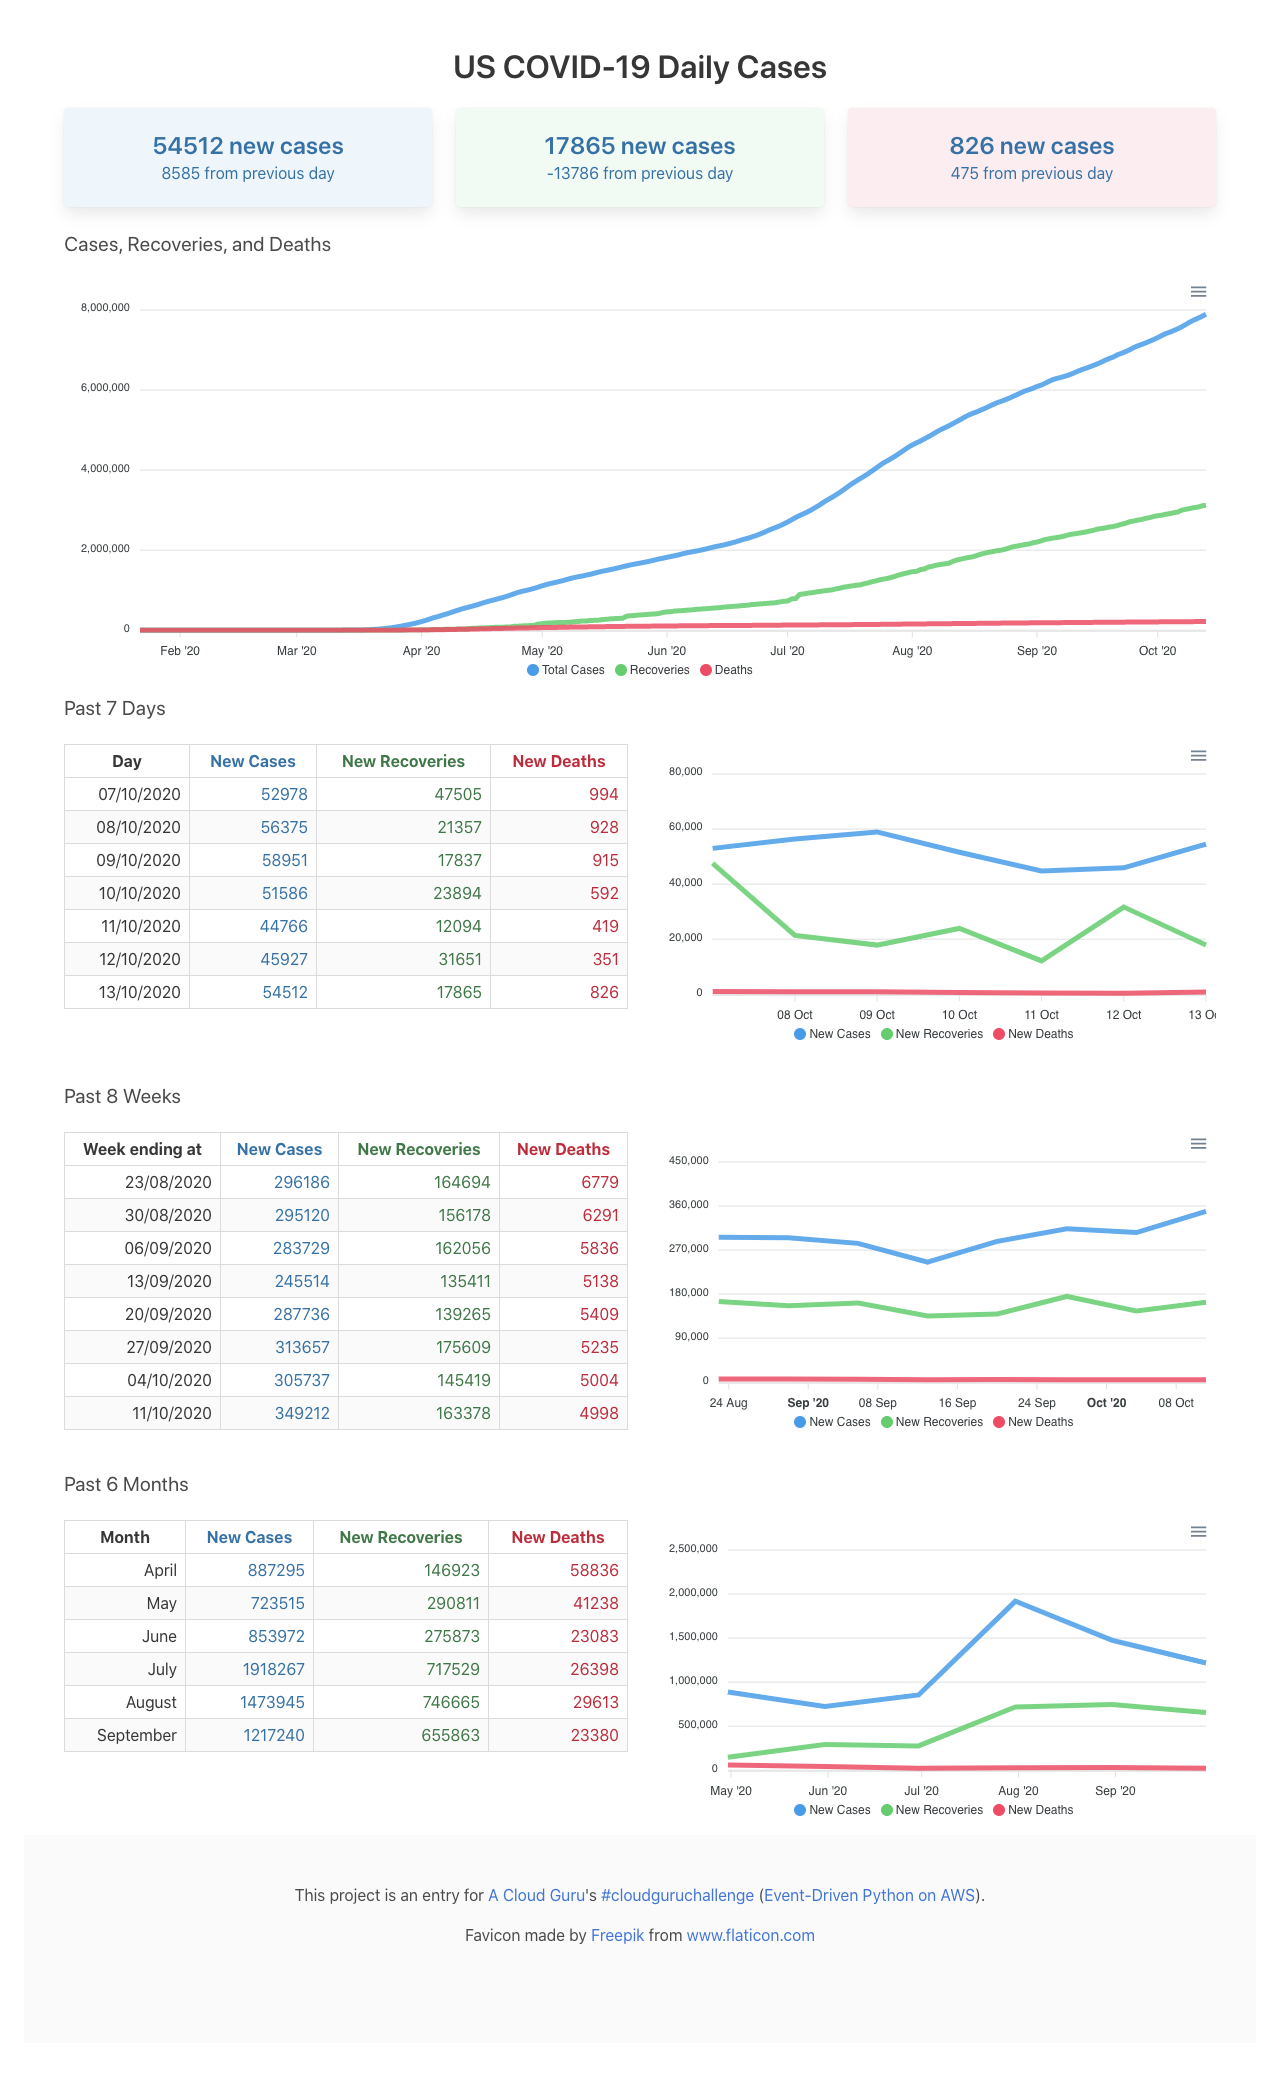
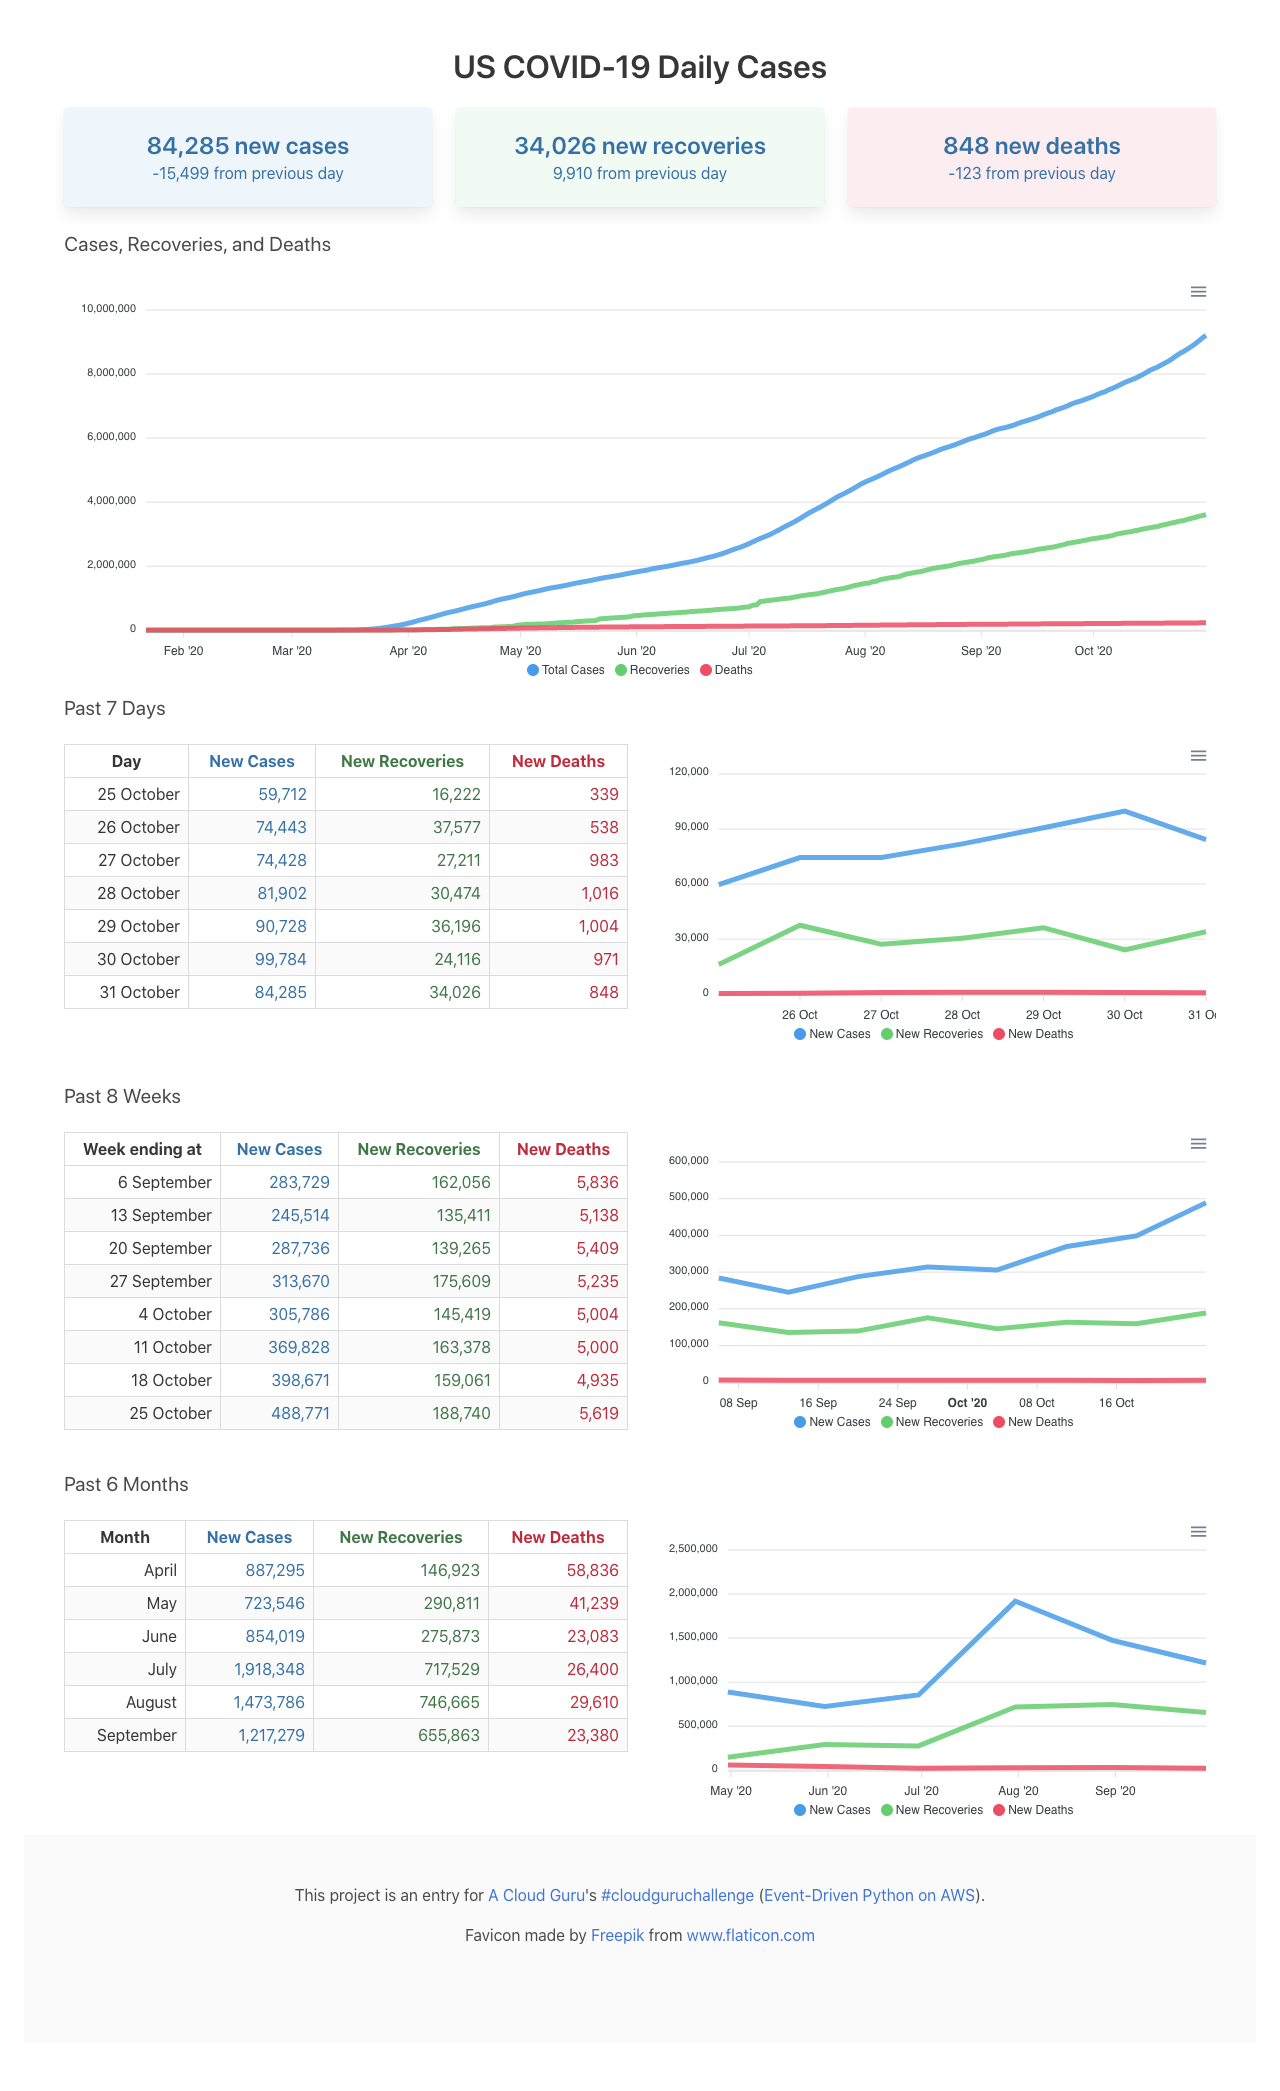
Fix TodayCard.

diff --git a/frontend/src/components/Table.tsx b/frontend/src/components/Table.tsx
@@ -15,8 +15,8 @@ const Table = ({
   dateFormatter = (date) =>
     date.toLocaleDateString(undefined, { month: "long", day: "numeric" }),
 }: TableProps) => {
-  const mapper = (row: CaseData) => (
-    <tr className="has-text-right">
+  const mapper = (row: CaseData, index: number) => (
+    <tr className="has-text-right" key={index}>
       <td>{dateFormatter(new Date(row.date))}</td>
       <td className="has-text-info-dark">{row.cases.toLocaleString()}</td>
       <td className="has-text-success-dark">

diff --git a/frontend/src/components/TodayCard.tsx b/frontend/src/components/TodayCard.tsx
@@ -28,7 +28,7 @@ const TodayCard = ({ data, column, backgroundClass }: TodayCardProps) => {
     <div className={`card has-text-centered ${backgroundClass}`}>
       <div className="card-content">
         <p className="title is-4 has-text-info-dark">
-          {latestStat.toLocaleString()} new cases
+          {latestStat.toLocaleString()} new {column}
         </p>
         <p className="subtitle is-6 has-text-info-dark">
           {difference.toLocaleString()} from previous day

diff --git a/README.md b/README.md
@@ -21,6 +21,8 @@ Challenge
 Outcome
 -------
 
+[Live demo](https://d21xiw2qs8azw2.cloudfront.net/)
+
 [Read my blog article about this project.](https://dev.to/dashmug/event-driven-python-in-aws-cloudguruchallenge-20la)
 
 |   | deployment status |
